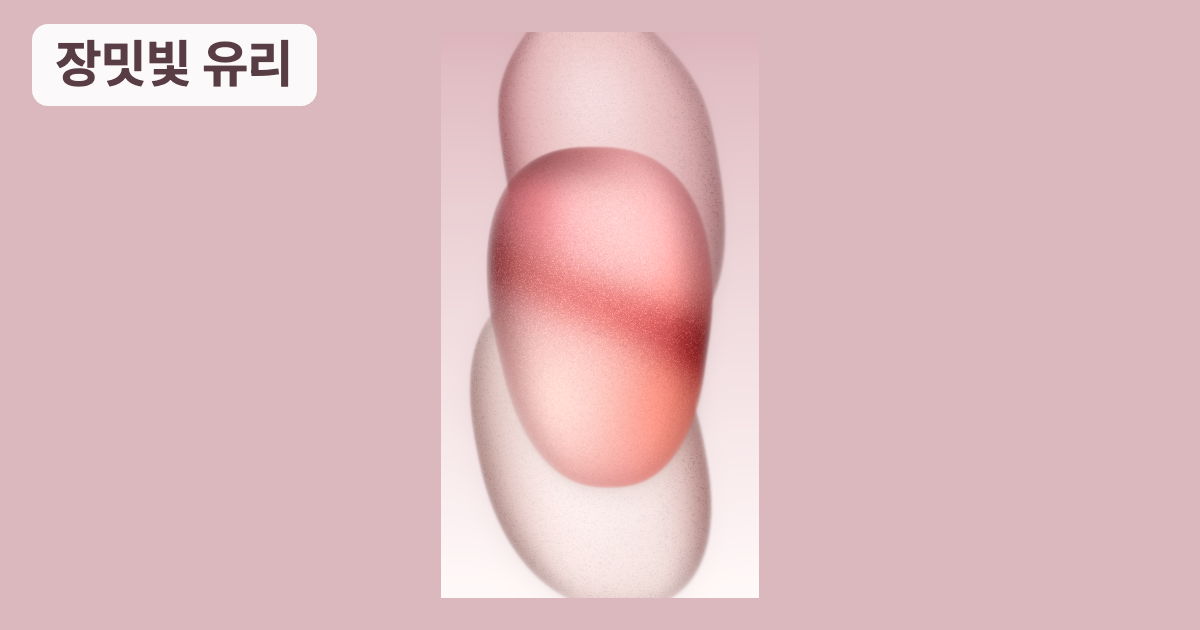
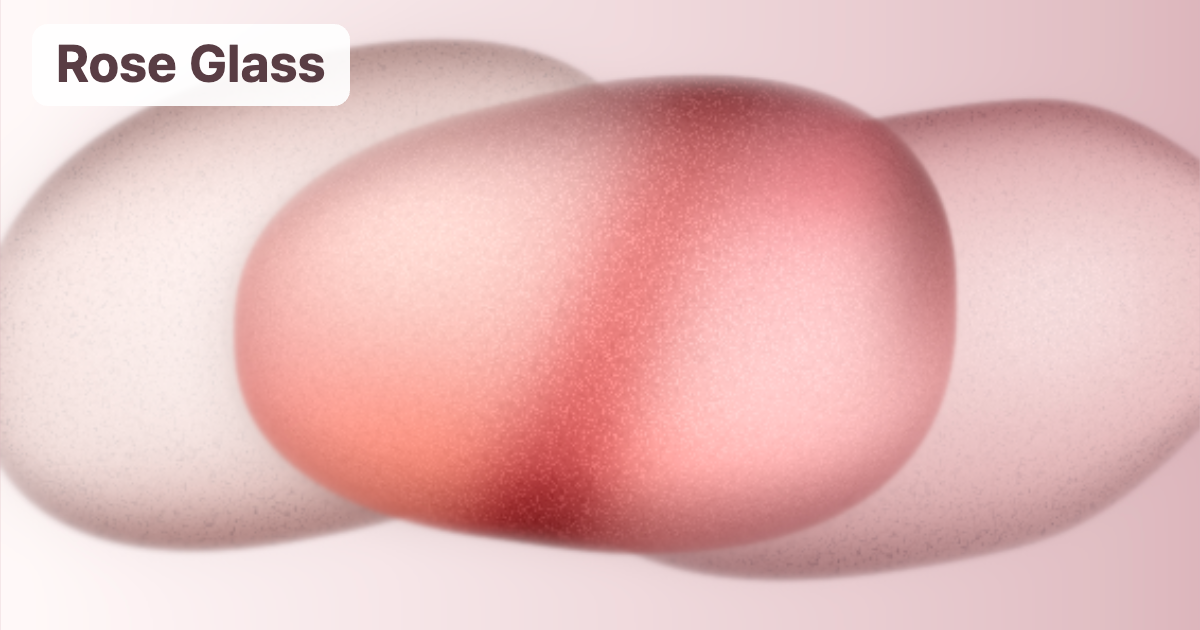
fix(rose-glass): rotate social card landscape

diff --git a/pages/apple-glass-wallpaper/index.html b/pages/apple-glass-wallpaper/index.html
@@ -4,23 +4,23 @@
     <meta charset="UTF-8" />
     <meta name="viewport" content="width=device-width, initial-scale=1, viewport-fit=cover" />
     <meta name="theme-color" content="#dab8be" />
-    <title>장밋빛 유리 — Brand Artwork</title>
-    <meta name="description" content="손끝에 따라 늘어나고 빛이 흐르는 장밋빛 유리 WebGL 아트워크." />
+    <title>Rose Glass — Brand Artwork</title>
+    <meta name="description" content="손끝에 따라 늘어나고 빛이 흐르는 Rose Glass WebGL 아트워크." />
     <link rel="canonical" href="https://studio.jiiwon.com/apple-glass-wallpaper/" />
     <meta property="og:type" content="website" />
     <meta property="og:url" content="https://studio.jiiwon.com/apple-glass-wallpaper/" />
-    <meta property="og:title" content="장밋빛 유리" />
-    <meta property="og:description" content="손끝에 따라 늘어나고 빛이 흐르는 장밋빛 유리 WebGL 아트워크." />
+    <meta property="og:title" content="Rose Glass" />
+    <meta property="og:description" content="손끝에 따라 늘어나고 빛이 흐르는 Rose Glass WebGL 아트워크." />
     <meta property="og:image" content="https://studio.jiiwon.com/apple-glass-wallpaper/assets/og-image.png" />
     <meta property="og:image:type" content="image/png" />
     <meta property="og:image:width" content="1200" />
     <meta property="og:image:height" content="630" />
-    <meta property="og:image:alt" content="분홍빛 배경 위에 세 겹의 반투명 유리가 놓이고 왼쪽 위에 장밋빛 유리 제목이 적힌 작품 이미지" />
+    <meta property="og:image:alt" content="가로로 회전한 세 겹의 반투명 유리와 왼쪽 위의 Rose Glass 제목" />
     <meta name="twitter:card" content="summary_large_image" />
-    <meta name="twitter:title" content="장밋빛 유리" />
-    <meta name="twitter:description" content="손끝에 따라 늘어나고 빛이 흐르는 장밋빛 유리 WebGL 아트워크." />
+    <meta name="twitter:title" content="Rose Glass" />
+    <meta name="twitter:description" content="손끝에 따라 늘어나고 빛이 흐르는 Rose Glass WebGL 아트워크." />
     <meta name="twitter:image" content="https://studio.jiiwon.com/apple-glass-wallpaper/assets/og-image.png" />
-    <meta name="twitter:image:alt" content="분홍빛 배경 위에 세 겹의 반투명 유리가 놓이고 왼쪽 위에 장밋빛 유리 제목이 적힌 작품 이미지" />
+    <meta name="twitter:image:alt" content="가로로 회전한 세 겹의 반투명 유리와 왼쪽 위의 Rose Glass 제목" />
     <link rel="stylesheet" href="./style.css" />
   </head>
   <body>

diff --git a/scripts/rose-glass-social-image.html b/scripts/rose-glass-social-image.html
@@ -3,7 +3,7 @@
 <head>
   <meta charset="UTF-8">
   <meta name="viewport" content="width=device-width, initial-scale=1">
-  <title>장밋빛 유리 공유 이미지 합성</title>
+  <title>Rose Glass 공유 이미지 합성</title>
   <style>
     * { box-sizing: border-box; }
     body { margin: 0; padding: 24px; background: #161616; color: #f4f2ec; font-family: system-ui, sans-serif; }
@@ -18,9 +18,9 @@
 </head>
 <body>
   <main>
-    <h1>장밋빛 유리 공유 이미지 합성</h1>
-    <p>실제 WebGL 캡처의 왼쪽 위에 작품명만 합성합니다. 생성형 이미지나 JPEG 중간 파일은 사용하지 않습니다.</p>
-    <canvas id="preview" width="1200" height="630" role="img" aria-label="왼쪽 위에 장밋빛 유리 작품명이 있는 공유 이미지"></canvas>
+    <h1>Rose Glass 공유 이미지 합성</h1>
+    <p>실제 WebGL 캡처를 90도 회전해 화면을 채우고 왼쪽 위에 영문 작품명만 합성합니다. 생성형 이미지나 JPEG 중간 파일은 사용하지 않습니다.</p>
+    <canvas id="preview" width="1200" height="630" role="img" aria-label="가로로 회전한 유리 작품 왼쪽 위에 Rose Glass 작품명이 있는 공유 이미지"></canvas>
     <p id="status" role="status">원본 이미지와 Pretendard를 불러오는 중…</p>
     <button id="download" disabled>PNG 다운로드</button>
     <p>입력: <code>pages/apple-glass-wallpaper/assets/og-artwork.png</code><br>

diff --git a/scripts/rose-glass-social-image.test.ts b/scripts/rose-glass-social-image.test.ts
@@ -5,6 +5,10 @@ test('uses the standard Rose Glass title treatment and position', () => {
   const context = {
     canvas: { width: 0, height: 0 },
     drawImage: vi.fn(),
+    save: vi.fn(),
+    translate: vi.fn(),
+    rotate: vi.fn(),
+    restore: vi.fn(),
     measureText: vi.fn(() => ({ width: 260 })),
     beginPath: vi.fn(),
     roundRect: vi.fn(),
@@ -18,10 +22,23 @@ test('uses the standard Rose Glass title treatment and position', () => {
 
   drawSocialImage(context, { naturalWidth: 1200, naturalHeight: 630 });
 
+  expect(context.translate).toHaveBeenCalledExactlyOnceWith(600, 315);
+  expect(context.rotate).toHaveBeenCalledExactlyOnceWith(Math.PI / 2);
+  expect(context.drawImage).toHaveBeenCalledExactlyOnceWith(
+    expect.anything(),
+    441,
+    32,
+    318,
+    566,
+    expect.closeTo(-337.102, 2),
+    -600,
+    expect.closeTo(674.205, 2),
+    1200,
+  );
   expect(context.font).toBe('700 52px "Pretendard Variable"');
   expect(context.fillStyle).toBe('#593d44');
   expect(socialImage.labelBackground).toBe('rgba(255, 255, 255, 0.92)');
   expect(context.roundRect).toHaveBeenCalledExactlyOnceWith(32, 24, 308, 82, 16);
   expect(context.fill).toHaveBeenCalledOnce();
-  expect(context.fillText).toHaveBeenCalledExactlyOnceWith('장밋빛 유리', 56, 82);
+  expect(context.fillText).toHaveBeenCalledExactlyOnceWith('Rose Glass', 56, 82);
 });

diff --git a/pages/apple-glass-wallpaper/social-preview.test.ts b/pages/apple-glass-wallpaper/social-preview.test.ts
@@ -16,7 +16,7 @@ test('social crawlers can read the Rose Glass card without JavaScript', () => {
   expect(html).toContain(`<link rel="canonical" href="${pageUrl}"`);
   expect(meta('og:type')).toBe('website');
   expect(meta('og:url')).toBe(pageUrl);
-  expect(meta('og:title')).toBe('장밋빛 유리');
+  expect(meta('og:title')).toBe('Rose Glass');
   expect(meta('twitter:title')).toBe(meta('og:title'));
   expect(meta('twitter:card')).toBe('summary_large_image');
   expect(meta('og:image')).toBe(`${pageUrl}assets/og-image.png`);
@@ -24,10 +24,10 @@ test('social crawlers can read the Rose Glass card without JavaScript', () => {
 });
 
 test('share descriptions and accessible image text remain consistent', () => {
-  expect(meta('description')).toContain('장밋빛 유리');
+  expect(meta('description')).toContain('Rose Glass');
   expect(meta('og:description')).toBe(meta('description'));
   expect(meta('twitter:description')).toBe(meta('description'));
-  expect(meta('og:image:alt')).toContain('장밋빛 유리');
+  expect(meta('og:image:alt')).toContain('Rose Glass');
   expect(meta('og:image:alt')).toContain('왼쪽 위');
   expect(meta('twitter:image:alt')).toBe(meta('og:image:alt'));
 });

diff --git a/docs/artworks/apple-glass-wallpaper/social-share-image.md b/docs/artworks/apple-glass-wallpaper/social-share-image.md
@@ -1,6 +1,6 @@
-# 장밋빛 유리 소셜 공유 이미지
+# Rose Glass 소셜 공유 이미지
 
-장밋빛 유리의 소셜 카드는 생성형 이미지가 아니라 작품 페이지에서 직접 캡처한 WebGL 렌더를 사용한다. 최종 파일은 `pages/apple-glass-wallpaper/assets/og-image.png`이며 1200 × 630 PNG다.
+Rose Glass의 소셜 카드는 생성형 이미지가 아니라 작품 페이지에서 직접 캡처한 WebGL 렌더를 사용한다. 최종 파일은 `pages/apple-glass-wallpaper/assets/og-image.png`이며 1200 × 630 PNG다.
 
 ## 구성
 
@@ -9,7 +9,7 @@
 - 합성 도구: `scripts/rose-glass-social-image.html`
 - 합성 로직: `scripts/rose-glass-social-image.mjs`
 
-원본은 조작 UI와 단계 표시를 숨긴 1200 × 630 브라우저 화면이다. 세 겹의 유리와 자동 조명을 그대로 보존하고, 왼쪽 위에 `장밋빛 유리` 제목만 반투명 흰색 라벨로 더한다. 제목색은 작품의 어두운 장밋빛을 가져온 `#593d44`다.
+원본은 조작 UI와 단계 표시를 숨긴 1200 × 630 브라우저 화면이다. 합성기는 그 안의 9:16 작품 프레임만 잘라 시계 방향으로 90도 회전하고, 비율을 유지한 채 1200 × 630 전체를 덮는다. 왼쪽 위에는 `Rose Glass` 제목만 반투명 흰색 라벨로 더한다. 제목색은 작품의 어두운 장밋빛을 가져온 `#593d44`다.
 
 ## 재생성
 

diff --git a/docs/README.md b/docs/README.md
@@ -53,9 +53,9 @@ docs/
 - [`architecture.md`](./artworks/line-pull/architecture.md) - 포인터 교차 선택, SVG 선 분리·중첩 클립, 문구 fitting, 프레임 루프와 질감 합성 구조
 - [`social-share-image.md`](./artworks/line-pull/social-share-image.md) - 실제 캡처의 왼쪽 위에 작품명만 합성하는 PNG 제작 도구와 재생성 방법
 
-### 장밋빛 유리 (Rose Glass)
+### Rose Glass
 
-- [`social-share-image.md`](./artworks/apple-glass-wallpaper/social-share-image.md) - 실제 WebGL 캡처에 장밋빛 유리 제목을 합성하는 PNG 제작 도구와 재생성 방법
+- [`social-share-image.md`](./artworks/apple-glass-wallpaper/social-share-image.md) - 실제 WebGL 캡처를 가로로 회전해 채우고 Rose Glass 제목을 합성하는 PNG 제작 도구와 재생성 방법
 
 ### 웃음꽃 (Smile Flower)
 
